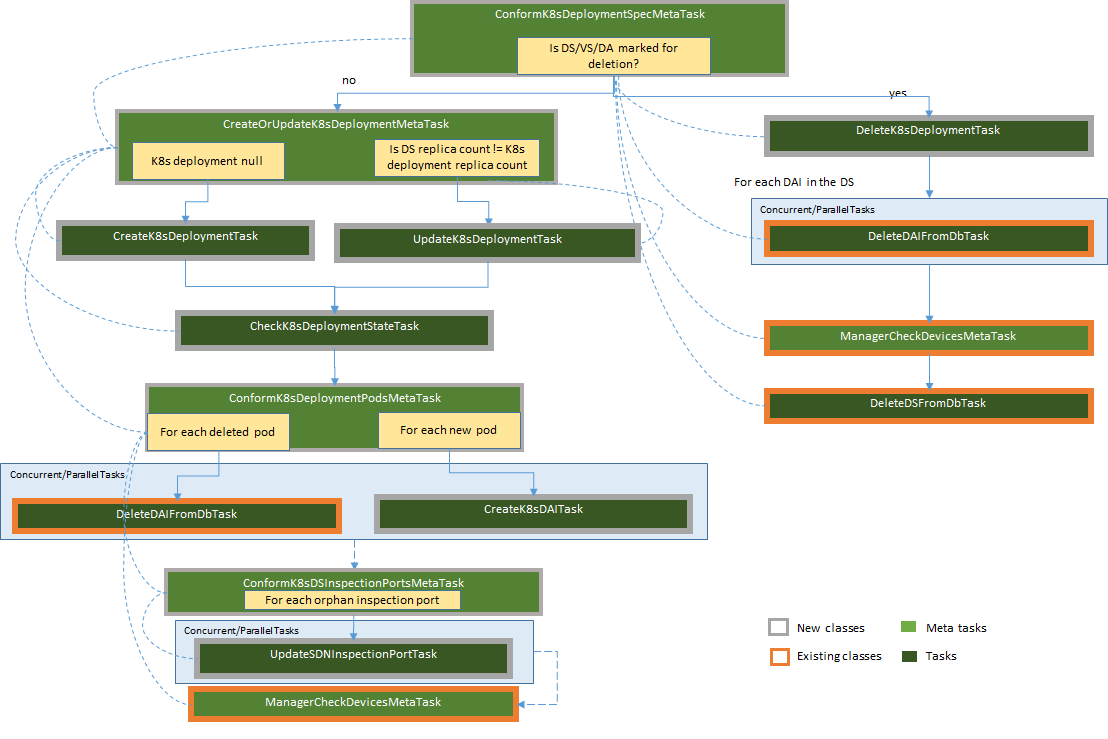
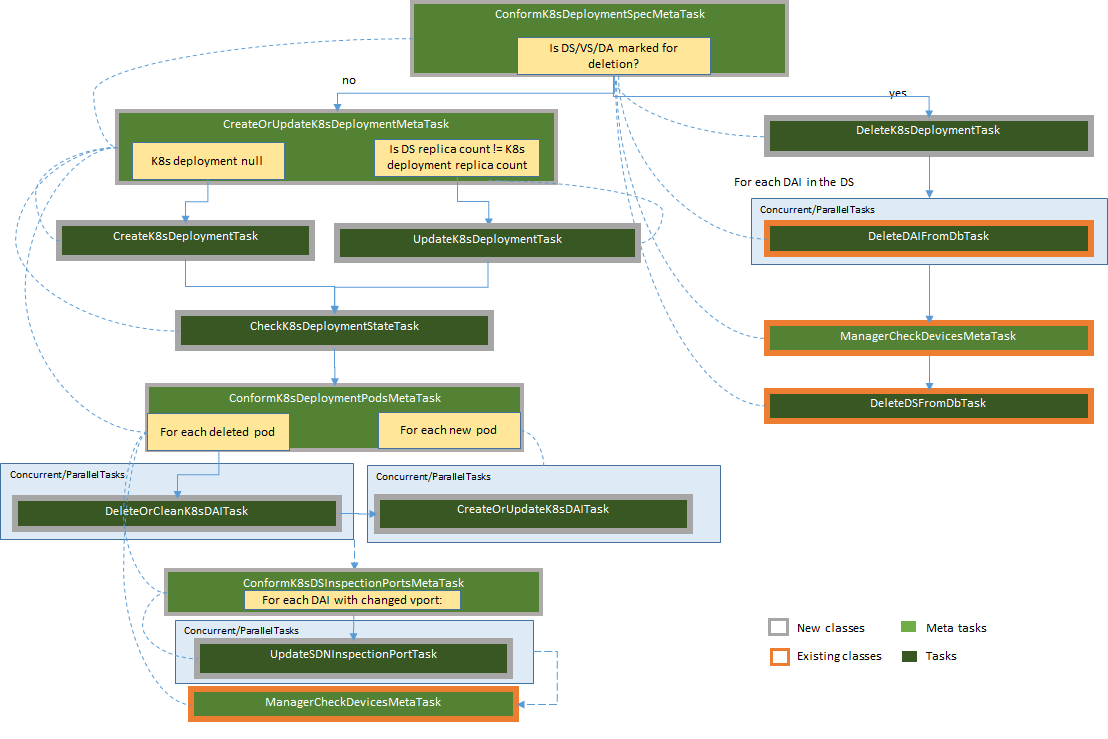
Moving the inspection port to the DAI entity

Changed region(s): [[0.0, 0.6225, 0.6751, 0.747], [0.2455, 0.8092, 0.3682, 0.8403]]

diff --git a/designs/containers/vnf-deployment/vnf-deployment.md b/designs/containers/vnf-deployment/vnf-deployment.md
@@ -98,7 +98,7 @@ shared (boolean, optional)
 Two new services are being added to enable the creation of an Appliances and Appliance Software Versions: `AddApplianceService` which expects the `ApplianceDto` as input, validating and persisting it; and `AddApplianceSoftwareVersionService` which expects the `ApplianceSoftwareVersionDto` as input, validating and persisting it.  
 The business logic and validation implemented by these services should mirror the existing service `ImportApplianceSoftwareVersionService`, also, to avoid code duplication, `ImportApplianceSoftwareVersionService` must be refactored to make use of the new services instead of making direct domain calls to persist those entities.  
 
-### Deployment Spec Services
+#### Deployment Spec Services
 The existing services `AddDeploymentSpecService` and `UpdateDeploymentSpecService` will need to be slightly updated to ensure that the optional fields for a container deployment spec are not present for virtualization connectors of type `KUBERNETES` but continue to perform the existing validation for virtualization connectors of type `OPENSTACK`. Some of these changes might need to be done within those services; some of them on the base class `BaseDeploymentSpecService`; and some others on validator `DeploymentSpecDtoValidator`.  
 Additionally, because we are using the deployment spec name as the name of the Kubernetes Deployment which must be unique and not changeable `UpdateDeploymentSpecService` must enforce that the name of the DS is not modified.
 
@@ -171,34 +171,10 @@ public class DeploymentSpec extends BaseEntity implements LastJobContainer {
 	// ...
 }
 ```
-#### Inspection Ports
-In Kubernetes, containers may be deleted and re-created at any time, without the direct control of OSC. This means it is possible for a container whose port is being used for traffic redirection to be deleted and replaced by Kubernetes. Because of that, OSC needs to have a way to update inspection ports registered with the SDN controller with a new virtual port. To enable this, OSC will persist a new entity `inspection port` which will be mapped to a DAI and also have a reference to the DS. OSC will use this entity to identify whether an inspection port under a DS is not assigned to a virtual port and conform this state with the SDN controller accordingly.  
-Also because of the volatile nature of pods/containers OSC will refrain from creating inspection ports prior to an appliance being bound to a security group. Similarly an inspection port will only be deleted when an appliance is unbound.  This will avoid a high number of orphan inspection ports on the SDN controller.  
 
-> Note: As an alternative to having this new entity we could also store the inspection port id from the SDN controller directly on the DAI table. However, because a DAI maps to a container, associated by names, and new ones will have new names we must delete the DAI when a container is deleted. We cannot, however, lose the inspection port id (in this case no longer associated with the deleted DAI) since we need it to update the SDN controller. Thus mapping this relationship on a separate entity becomes necessary. 
-
-```java
-@Entity
-@Table(name = "INSPECTION_PORT")
-public class InspectionPort extends BaseEntity {
-	@Column(name = "externalId")
-    private String externalId;  // The SDN controller Element.getElementId() returned by registerInspectionPort
-	
-	@Column(name = "parentId")
-    private String parentId;  // The SDN controller Element.getParentId() returned by registerInspectionPort
-	
-	@ManyToOne(fetch = FetchType.LAZY) // A deployment spec can have many inspection ports
-    @JoinColumn(name = "deployment_spec_fk", nullable = false,
-            foreignKey = @ForeignKey(name = "FK_INSPECTON_PORT_DEPLOYMENT_SPEC"))
-    private DeploymentSpec deploymentSpec;  
-	
-	@OneToOne(fetch = FetchType.EAGER)  // An inspection port may have a reference to a distributed appliance
-    @JoinColumn(name = "dai_fk", nullable = true, foreignKey = @ForeignKey(name = "FK_INSPECTION_PORT_DAI"))
-    private DistributedApplianceInstance distributedApplianceInstance;
-}
-```
 ### Distributed Appliance Instances
-Most of the existing fields of the `DistributedApplianceInstance` entity will be reused for Kubernetes as indicated below. Additionally, a reference to the new type `InspectionPort` is being included as well as a new field `parentId` to store the id of the domain thatsyncronize syncronize syncronize syncronize syncronize  this instance belong to.  
+In Kubernetes, containers may be deleted and re-created at any time, without the direct control of OSC. This means it is possible for a container whose port is being used for traffic redirection to be deleted and replaced by Kubernetes. Because of that, OSC needs to have a way to update inspection ports registered with the SDN controller with a new virtual port. To enable this, OSC will persist two new columns in the entity `DistributedApplianceInsance`: `inspectionElementId` and `inspectionElementParentId`. These optional values will store the identifier of the registered inspection port and its parent respectively, both returned from the SDN controller method `SdnRedirectionApi.registerInspectionPort`. Also, the DAI will have a column to store the pod UID, `externalId`.  
+Additionally, most of the existing fields of the `DistributedApplianceInstance` entity will be reused for Kubernetes as indicated below: 
 
 
 ```java
@@ -212,7 +188,13 @@ public class DistributedApplianceInstance extends BaseEntity {
     private String ipAddress;                               // The ip address of the Kubernetes pod
 	
 	@Column(name = "parent_id")
-    private String parentId;                               // The id of the parent (network domain) this appliance belongs to.
+    private String inspectionElementParentId;                               // The id of the parent (network domain) of the inspection port this appliance is associated with.
+	
+	@Column(name = "external_id")
+    private String externalId;                               // The unique id of the Kubernetes pod.
+	
+	@Column(name = "parent_id")
+    private String inspectionElementParentId;                               // The id of the parent (network domain) this appliance belongs to.
 	
 	@Column(name = "inspection_os_ingress_port_id")         
     private String inspectionOsIngressPortId;               // Stores the virtual port id of the pod retrieved from the SDN controller. 
@@ -220,8 +202,7 @@ public class DistributedApplianceInstance extends BaseEntity {
 	@Column(name = "inspection_ingress_mac_address")
     private String inspectionIngressMacAddress;            // Stores the virtual port id of the pod retrieved from the SDN controller.  
 	
-	@OneToOne(mappedBy = "distributedApplianceInstance", fetch = FetchType.LAZY)
-    private InspectionPort inspectionPort;                 // The inspection port associated with this DAI.
+	
 }
 ```
 
@@ -303,11 +284,14 @@ This task is responsible for checking whether all instances expected by the **De
 This task is responsible for listing all the Kubernetes pods related to a given deployment and identifying whether a DAI needs to be created or deleted.  For each case it will add to the graph either a `DeleteDAIFromDbTask` or a `CreateK8sDAITask`. After all these tasks run concurrently (even if some fail), this meta task will trigger the task `ConformK8sDSInspectionHooksMetaTask` and then the task `ManagerCheckK8sDeviceMetaTask`.  
 To list all the pods belonging to a Deployment this task will use the method `KubernetesPodApi.getPodsByLabel` providing the `label : "KubernetesDeploymentApi.OSC_LABEL_KEY=ds.name_id"`. We can safely rely on this to query the pods belonging to a deployment due to the [Kubernetes Deployment Selector design](#kubernetes-deployment-selector).  
 
-#### **CreateK8sDAITask**
-This task is responsible for persisting a DAI in the OSC database for a newly found pod VNF.  It will receive an `KubernetesPod` object, retrieve the network information from the SDN controller using the method `SdnRedirectionApi.getNetworkElement()` with `deviceOwnerId : pod.uuid` and persist DAI entity in the database with the returned network info.  
+#### **CreateOrUpdateK8sDAITask**
+This task is responsible for persisting a DAI in the OSC database for a newly found pod VNF.  It will receive an `KubernetesPod` object, retrieve the network information from the SDN controller using the method `SdnRedirectionApi.getNetworkElement()` with `deviceOwnerId : pod.uuid` and persist DAI entity in the database with the returned network info.  When persisting it must identify whether there is a DAI currently without network information (i.e.: ingress port) but with an inspection port id. If so it will create the new DAI using the found inspection port id and parent id, persist it and delete the old DAI.
+
+#### **DeleteOrCleanK8sDAITask**
+This task is responsible for deleting or cleaning up a DAI in the OSC database for a deleted pod.  It will receive an `KubernetesPod` object.  When deleting  it must identify whether the targeted DAI (same pod UID) has an inspection port id. If so instead of deleting the DAI from the database it will clean up the network information (i.e.: ingress port) and update it, otherwise it will delete the targeted DAI.  
 
 #### **ConformK8sDSInspectionPortsMetaTask**  
-This task is responsible for checking whether there is any inspection port under the deployment spec that is not associated with a DAI and if there is any DAI not yet associated with an inspection port. This metatask will then pair each available DAI with an orphan inspection port and schedule a task `UpdateSDNInspectionPortTask`.   
+This task is responsible for checking whether each DAT with an inspection port id has the same virtual ports in the SDN controller as the one we are persisting. For that it will call `SdnRedirectionApi.getInspectionPort` and if the virtual ports are different then it will schedule a task `UpdateSDNInspectionPortTask` to have the virtual ports updated.  
 
 #### **UpdateSDNInspectionPortTask**   
 This task is responsible for updating an existing inspection port registered with the SDN controller with a new virtual port id. For that this task will invoke the SDN API SDK `SdnRedirectionApi.registerInspectionPort` providing the id of the inspection port, the parent id and the new virtual port(s). If that succeeds it will persist the DAI reference in the corresponding `InspectionPort` in the OSC database.   
